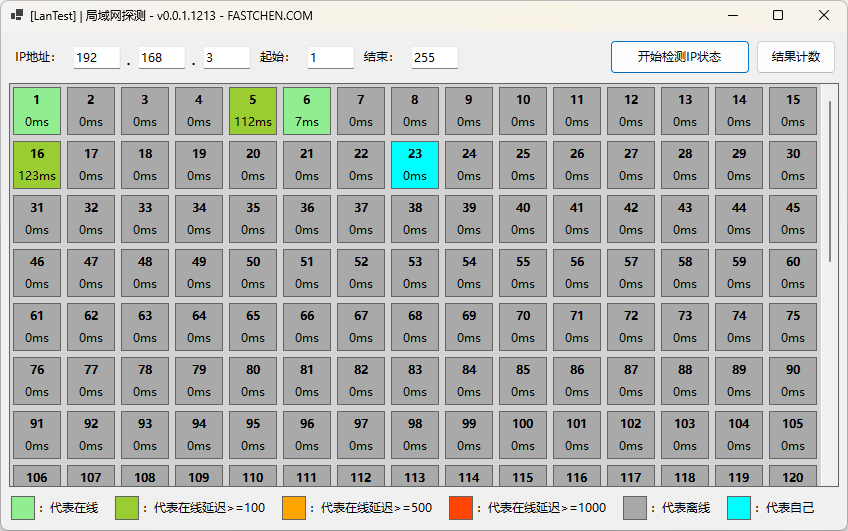
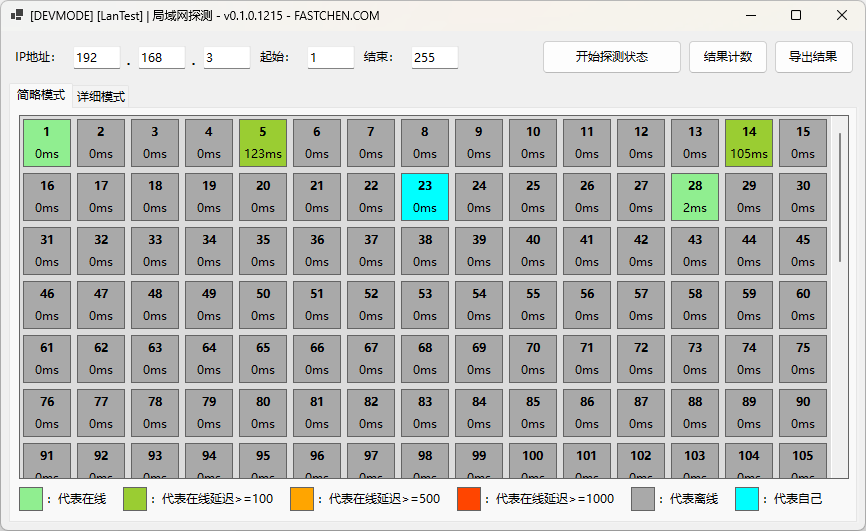
#12: update /software/lantest/tutorial

diff --git a/software/lantest/tutorial.md b/software/lantest/tutorial.md
@@ -6,8 +6,12 @@ description: Tutorial for LanTest
 
 运行软件后，在 **IP地址** 处填写要测试的 **前三段IP地址**，在 **起始** 处填写第四段开始数，在 **结束** 处填写第四段结束数，然后点击 **开始检测IP状态** 按钮，并坐和放宽。
 
-<figure><img src="../../.gitbook/assets/lantest_1.png" alt=""><figcaption><p>扫描后结果</p></figcaption></figure>
+<figure><img src="../../.gitbook/assets/lantest_1.png" alt=""><figcaption></figcaption></figure>
 
 扫描完毕后可以点击 结果计数 确认扫描数量与设置的数量一致，并快速查看在线数量。
 
 <figure><img src="../../.gitbook/assets/lantest_2.png" alt=""><figcaption></figcaption></figure>
+
+探测后也可切换至详细模式查看更多细节。
+
+<figure><img src="../../.gitbook/assets/lantest_3.png" alt=""><figcaption></figcaption></figure>
